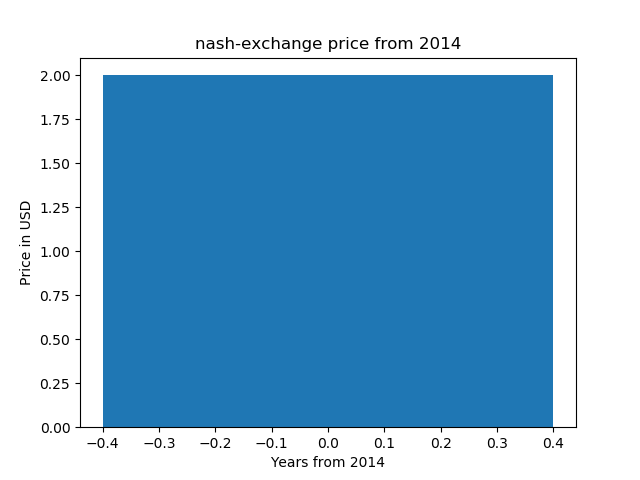
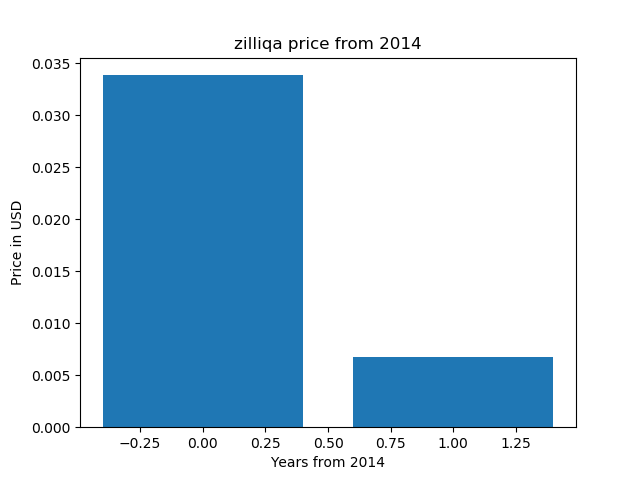
first commit

diff --git a/example.py b/example.py
@@ -10,7 +10,7 @@ from time import gmtime, strftime
 import matplotlib.pyplot as plt
 
 enddate = strftime("%Y%m%d", gmtime())
-r  = requests.get("https://coinmarketcap.com/currencies/nash-exchange/historical-data/?start=20140101&end={0}".format(enddate))
+r  = requests.get("https://coinmarketcap.com/currencies/zilliqa/historical-data/?start=20140101&end={0}".format(enddate))
 data = r.text
 
 soup = BeautifulSoup(data, "html.parser")
@@ -44,7 +44,7 @@ print(x)
 
 x = list(range(0, len(prices)))
 
-plt.title('nash-exchange price from 2014')
+plt.title('zilliqa price from 2014')
 plt.ylabel('Price in USD')
 plt.xlabel('Years from 2014')
 plt.bar(x, prices)

diff --git a/README.md b/README.md
@@ -1,6 +1,6 @@
-# nash-exchange price chart 
+# zilliqa price chart 
 
-nash-exchange price chart (matplotlib, python)
+zilliqa price chart (matplotlib, python)
 
 https://pythonprogramminglanguage.com
 
